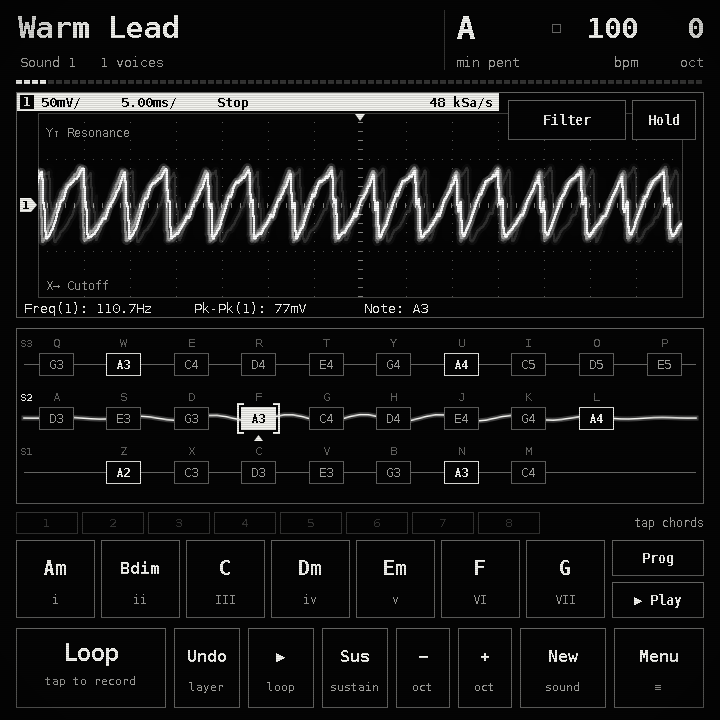
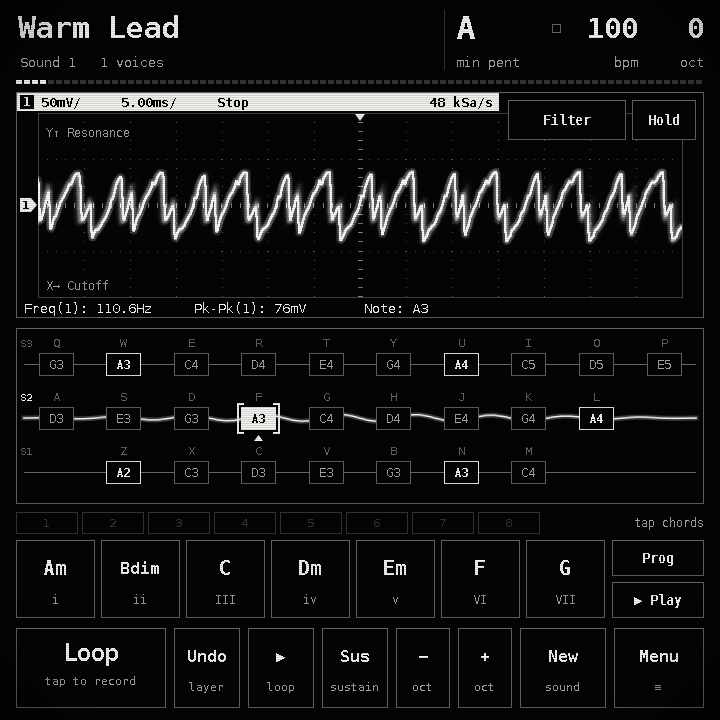
Scope trace drawn by hand: a frame with sound costs 6-12 ms instead of 40-64 ms (0.8.1)
While anything sounded, the Synth page's scope went through Qt's path stroker
twice a frame (a 7 px glow and a 2 px line over a path of up to 1288 segments),
about 30 ms a stroke. At 25 frames a second that held the main thread at a
full core; a running 0.7.0 was measured at 97-103 % on the device.

The trace never goes backwards, so each pixel column holds one vertical span
and a stroke is a distance to those spans. Same widths, colours and glow as
before, in the plain and the glitch scope.

- self-test: with three notes sounding every page must redraw well inside a
  frame; a kept clip must reach the state file by itself (both were untested)
- VREQUENCY_TIMING=1 now also prints frames per second and the cost of a frame

diff --git a/app/scope.cpp b/app/scope.cpp
@@ -8,6 +8,7 @@
 #include <QPainter>
 #include <QPainterPath>
 #include <cmath>
+#include <cstring>
 
 using namespace td;
 using namespace pal;
@@ -22,10 +23,92 @@ QString noteText(float midi) {
     int n = (int)std::lround(midi);
     return QString("%1%2").arg(noteName(n)).arg(n / 12 - 1);
 }
+
+// ---- the trace, drawn by hand ----
+//
+// The wave is a line that never goes backwards, so in every pixel column it covers one
+// vertical span. Stroking it is then a matter of distance to those spans, which costs a
+// fraction of a millisecond; the general path stroker took 30 ms a stroke on a busy wave.
+const int TW = 644, TH = 184; // the trace area, in pixels
+
+struct Trace {
+    float lo[TW + 1], hi[TW + 1];
+    bool any = false;
+    float px = 0, py = 0;
+    Trace() { for (int i = 0; i <= TW; ++i) { lo[i] = 1e9f; hi[i] = -1e9f; } }
+    void span(int x, float a, float b) {
+        if (x < 0 || x > TW) return;
+        lo[x] = std::min(lo[x], std::min(a, b)); hi[x] = std::max(hi[x], std::max(a, b));
+    }
+    void to(float x, float y) { // the next point: in the same column, or the one after
+        if (any) {
+            const int x0 = (int)px, x1 = (int)x;
+            if (x0 == x1) span(x0, py, y);
+            else { const float mid = (py + y) * 0.5f; span(x0, py, mid); span(x1, mid, y); }
+        }
+        any = true; px = x; py = y;
+    }
+};
+
+// Antialiased coverage (0..255) of a stroke `width` pixels wide along the trace.
+void traceCoverage(const Trace &t, float width, uchar *plane) {
+    std::memset(plane, 0, (size_t)TW * TH);
+    const float reach = width * 0.5f + 0.5f; // coverage falls to nothing this far from the line
+    for (int x = 0; x <= TW; ++x) {
+        if (t.lo[x] > t.hi[x]) continue;
+        const float lo = t.lo[x], hi = t.hi[x];
+        const int r0 = std::max(0, (int)std::floor(lo - reach)), r1 = std::min(TH - 1, (int)std::floor(hi + reach));
+        for (int c = std::max(0, (int)std::floor(x - reach)); c <= std::min(TW - 1, (int)std::floor(x + reach)); ++c) {
+            const float dx = std::fabs(c + 0.5f - x);
+            if (dx >= reach) continue;
+            const int inside = std::min(255, (int)((reach - dx) * 255.0f));
+            uchar *col = plane + c;
+            for (int r = r0; r <= r1; ++r) {
+                const float yc = r + 0.5f, dy = yc < lo ? lo - yc : (yc > hi ? yc - hi : 0.0f);
+                int v = inside;
+                if (dy > 0) {
+                    const float d = std::sqrt(dx * dx + dy * dy);
+                    if (d >= reach) continue;
+                    v = std::min(255, (int)((reach - d) * 255.0f));
+                }
+                uchar &o = col[(size_t)r * TW];
+                if (v > o) o = (uchar)v;
+            }
+        }
+    }
+}
+
+// Paints a colour through the coverage onto an opaque RGB32 image (plain "source over").
+void traceBlend(QImage &img, const uchar *plane, QColor colour, int alpha) {
+    const int cr = colour.red(), cg = colour.green(), cb = colour.blue();
+    for (int y = 0; y < TH; ++y) {
+        QRgb *line = reinterpret_cast<QRgb *>(img.scanLine(y));
+        const uchar *cov = plane + (size_t)y * TW;
+        for (int x = 0; x < TW; ++x) {
+            if (!cov[x]) continue;
+            const int a = cov[x] * alpha / 255, ia = 255 - a;
+            const QRgb d = line[x];
+            line[x] = qRgb((qRed(d) * ia + cr * a) / 255, (qGreen(d) * ia + cg * a) / 255, (qBlue(d) * ia + cb * a) / 255);
+        }
+    }
+}
+
+// The same, as a see-through image to lay over something else.
+void traceOverlay(QImage &img, const uchar *plane, QColor colour, int alpha) {
+    const int cr = colour.red(), cg = colour.green(), cb = colour.blue();
+    for (int y = 0; y < TH; ++y) {
+        QRgb *line = reinterpret_cast<QRgb *>(img.scanLine(y));
+        const uchar *cov = plane + (size_t)y * TW;
+        for (int x = 0; x < TW; ++x) {
+            const int a = cov[x] * alpha / 255;
+            line[x] = qRgba(cr * a / 255, cg * a / 255, cb * a / 255, a); // premultiplied
+        }
+    }
+}
 } // namespace
 
 void MainWindow::drawScope(QRectF xy) {
-    const int GW = 644, GH = 184;
+    const int GW = TW, GH = TH;
     const qreal div = 46;
     const QRectF GR(xy.x() + 22, xy.y() + 21, GW, GH);
     const int L = Qt::AlignLeft | Qt::AlignVCenter;
@@ -146,7 +229,8 @@ void MainWindow::drawScope(QRectF xy) {
     // white on top, so the wave on screen is still the wave you hear.
     glitchVis += ((u.glitch ? 1.0f : 0.0f) - glitchVis) * (u.glitch ? 0.5f : 0.2f);
     const bool gl = glitchVis > 0.03f;
-    QPainterPath live;
+    static uchar cover[TW * TH];
+    Trace tr;
     {
         if (gl) {
             QImage prev = phos.copy();
@@ -155,21 +239,19 @@ void MainWindow::drawScope(QRectF xy) {
             q0.setOpacity(u.glitch ? 0.87 + 0.10 * u.glitchY : 0.6);
             const int step = 4 + (int)(7 * u.glitchX);
             q0.drawImage(QPoint(step, (step * 2 + 1) / 3), prev);
+        } else {
+            QPainter q(&phos);
+            q.fillRect(phos.rect(), QColor(0, 0, 0, 112));
         }
-        QPainter q(&phos);
-        if (!gl) q.fillRect(phos.rect(), QColor(0, 0, 0, 112));
-        q.setRenderHint(QPainter::Antialiasing, true);
         const float vdiv = VD_V[vdIdx];
-        auto Y = [&](float v) { return GH / 2.0 - qBound(-2.1f, v / vdiv, 2.1f) * div; };
-        QPainterPath path;
+        auto Y = [&](float v) { return (float)(GH / 2.0 - qBound(-2.1f, v / vdiv, 2.1f) * div); };
         double per = (double)need / GW; // samples per pixel column
         if (per <= 1.5) {
             for (int x = 0; x <= GW; ++x) {
                 double pos = start + x * per;
                 int i0 = qBound(0, (int)pos, total - 2);
                 float fr = (float)(pos - i0);
-                float v = buf[i0] + (buf[i0 + 1] - buf[i0]) * fr;
-                if (x == 0) path.moveTo(x, Y(v)); else path.lineTo(x, Y(v));
+                tr.to(x, Y(buf[i0] + (buf[i0 + 1] - buf[i0]) * fr));
             }
         } else { // peak detect: each column spans from its lowest to its highest sample
             for (int x = 0; x < GW; ++x) {
@@ -177,42 +259,33 @@ void MainWindow::drawScope(QRectF xy) {
                 float mn = buf[a], mx = buf[a];
                 for (int i = a + 1; i < b; ++i) { mn = qMin(mn, buf[i]); mx = qMax(mx, buf[i]); }
                 bool up = buf[b - 1] >= buf[a];
-                if (x == 0) path.moveTo(x, Y(up ? mn : mx));
-                path.lineTo(x, Y(up ? mn : mx));
-                path.lineTo(x, Y(up ? mx : mn));
+                tr.to(x, Y(up ? mn : mx));
+                tr.to(x, Y(up ? mx : mn));
             }
         }
-        q.setBrush(Qt::NoBrush);
         if (gl) {
             glitchHue = std::fmod(glitchHue + 0.083f, 1.0f);
-            QColor c = QColor::fromHsvF(glitchHue, qBound(0.0f, glitchVis, 1.0f), 1.0f);
-            c.setAlpha(70);
-            q.setPen(QPen(c, 6.0, Qt::SolidLine, Qt::RoundCap, Qt::RoundJoin)); // bloom, in this frame's colour
-            q.drawPath(path);
-            c.setAlpha(255);
-            q.setPen(QPen(c, 2.0, Qt::SolidLine, Qt::RoundCap, Qt::RoundJoin));
-            q.drawPath(path);
-            live = path;
+            const QColor c = QColor::fromHsvF(glitchHue, qBound(0.0f, glitchVis, 1.0f), 1.0f);
+            traceCoverage(tr, 6.0f, cover);
+            traceBlend(phos, cover, c, 70); // bloom, in this frame's colour
+            traceCoverage(tr, 2.0f, cover);
+            traceBlend(phos, cover, c, 255);
         } else {
-            q.setPen(QPen(QColor(255, 255, 255, 46), 7.0, Qt::SolidLine, Qt::RoundCap, Qt::RoundJoin)); // bloom
-            q.drawPath(path);
-            q.setPen(QPen(QColor(0xff, 0xff, 0xfb), 2.0, Qt::SolidLine, Qt::RoundCap, Qt::RoundJoin));
-            q.drawPath(path);
+            traceCoverage(tr, 7.0f, cover);
+            traceBlend(phos, cover, QColor(255, 255, 255), 46); // bloom
+            traceCoverage(tr, 2.0f, cover);
+            traceBlend(phos, cover, QColor(0xff, 0xff, 0xfb), 255);
         }
     }
     g->setCompositionMode(QPainter::CompositionMode_Plus);
     g->drawImage(GR.topLeft(), phos);
     g->setCompositionMode(QPainter::CompositionMode_SourceOver);
     if (gl) { // the present wave, white, over its own coloured history
-        g->save();
-        g->setClipRect(GR);
-        g->translate(GR.topLeft());
-        g->setRenderHint(QPainter::Antialiasing, true);
-        g->setBrush(Qt::NoBrush);
-        g->setPen(QPen(QColor(255, 255, 251, (int)(255 * qBound(0.0f, glitchVis, 1.0f))), 1.6, Qt::SolidLine, Qt::RoundCap, Qt::RoundJoin));
-        g->drawPath(live);
-        g->restore();
-        g->setRenderHint(QPainter::Antialiasing, false);
+        static QImage top;
+        if (top.size() != QSize(GW, GH)) top = QImage(GW, GH, QImage::Format_ARGB32_Premultiplied);
+        traceCoverage(tr, 1.6f, cover);
+        traceOverlay(top, cover, QColor(255, 255, 251), (int)(255 * qBound(0.0f, glitchVis, 1.0f)));
+        g->drawImage(GR.topLeft(), top);
     }
 
     // ---- markers: trigger point (top centre), channel ground (left margin) ----

diff --git a/app/selftest.cpp b/app/selftest.cpp
@@ -85,6 +85,22 @@ int runSelfTest(MainWindow &w, Instrument &inst, AudioOut &audio, const QString 
         for (int i = 0; i < 40; ++i) w.shot();
         std::printf("  info  play page redraw: %.1f ms per frame\n", pt.elapsed() / 40.0);
     }
+    { // a busy wave on the scope once cost 40 to 60 ms a frame: a whole processor core at 25 frames a second
+        static const char *pn[] = {"Track", "Synth", "Sound", "Beat", "Backing", "Tune", "System", "Help"};
+        key(w, Qt::Key_Z, true); key(w, Qt::Key_S, true); key(w, Qt::Key_E, true); wait(300);
+        double worst = 0; int worstPage = 0;
+        for (int p = 0; p < MainWindow::PG_COUNT; ++p) {
+            w.setPage(p); w.shot();
+            QElapsedTimer t; t.start();
+            for (int i = 0; i < 20; ++i) w.shot();
+            const double ms = t.nsecsElapsed() / 20e6;
+            if (ms > worst) { worst = ms; worstPage = p; }
+        }
+        key(w, Qt::Key_E, false); key(w, Qt::Key_S, false); key(w, Qt::Key_Z, false);
+        inst.cmd(EV_PANIC); // no release tails left for the checks that follow
+        w.setPage(MainWindow::PG_PLAY); wait(400);
+        check(worst < 25.0, QString("with three notes sounding every page redraws well inside a 40 ms frame (slowest: %1, %2 ms)").arg(pn[worstPage]).arg(worst, 0, 'f', 1));
+    }
 
     std::printf("- keyboard events -> notes\n");
     key(w, Qt::Key_Z, true); wait(120);
@@ -289,6 +305,9 @@ int runSelfTest(MainWindow &w, Instrument &inst, AudioOut &audio, const QString 
         check(T().clips.size() == 3 && T().clips[0]->kind == CK_BEAT && T().clips[1]->kind == CK_CHORDS && T().clips[2]->kind == CK_LOOP,
               "+ Keep copies the beat, the chords and the loop onto the shelf");
         check(w.clipInHand(), "and the newest clip is in hand, ready to place");
+        wait(3200);
+        QJsonObject aj; store::readJson(store::baseDir() + "/state.json", aj);
+        check(aj["track"].toObject()["clips"].toArray().size() == 3, "a moment after an edit the track is in the state file without being asked");
         tap(w, "keep"); wait(60);
         check(T().clips.size() == 3, "keeping the same things again adds nothing");
         QRectF lanes = w.zoneRect("lanes");

diff --git a/app/mainwindow.cpp b/app/mainwindow.cpp
@@ -764,8 +764,19 @@ void MainWindow::paintEvent(QPaintEvent *) {
         first = false;
         if (qEnvironmentVariableIsSet("VREQUENCY_TIMING")) fprintf(stderr, "vrequency: first frame %lld ms after launch\n", (long long)msSinceStart());
     }
-    QPainter painter(this);
-    drawAll(painter, width(), height());
+    QElapsedTimer pt; pt.start();
+    {
+        QPainter painter(this);
+        drawAll(painter, width(), height());
+    }
+    // VREQUENCY_TIMING=1 prints how often the window is drawn and how long a frame takes
+    static const bool timing = qEnvironmentVariableIsSet("VREQUENCY_TIMING");
+    static int frames = 0; static qint64 spent = 0, since = 0;
+    ++frames; spent += pt.nsecsElapsed();
+    if (timing && clock.elapsed() - since >= 2000) {
+        fprintf(stderr, "vrequency: page %d, %.1f frames/s, %.1f ms each\n", pg, frames * 1000.0 / (clock.elapsed() - since), spent / 1e6 / frames);
+        frames = 0; spent = 0; since = clock.elapsed();
+    }
 }
 
 void MainWindow::drawAll(QPainter &painter, qreal W, qreal H) {

diff --git a/app/main.cpp b/app/main.cpp
@@ -27,7 +27,7 @@ int main(int argc, char **argv) {
         else if (a == "--shots" && i + 1 < argc) shots = argv[++i];
         else if (a == "--render" && i + 1 < argc) render = argv[++i];
         else if (a == "--audio" && i + 1 < argc) prefer = argv[++i];
-        else if (a == "--version") { std::printf("vrequency 0.8.0\n"); return 0; }
+        else if (a == "--version") { std::printf("vrequency 0.8.1\n"); return 0; }
         else if (a == "--help" || a == "-h") {
             std::printf("venv vrequency - pocket string synthesiser\n\n"
                         "  vrequency               start full screen\n"

diff --git a/docs/STATUS.md b/docs/STATUS.md
@@ -1,6 +1,6 @@
 # Status — what works, what is unproven, what is missing
 
-Version 0.8.0, 2026-11-13 (0.7.0 plus a sound picker on the Track page: a placed clip can play as one of eighteen new Keys, Guitar and Bass sounds, any of your own sounds or another kit, with an octave shift. 0.7.0 was 0.6.0 plus a Track page for arranging kept beats, chords and loops on lanes, with chop, cycle and export; the tabs now start with Track and the Play page is called Synth. 0.6.0 added the Beat page and Play last, 0.5.0 five sine-based "dream" sounds, 0.4.0 the Glitch touch-pad mapping). "Tested" below means an automated test measured it; it does **not** mean a
+Version 0.8.1, 2026-11-13 (0.8.0 plus a fix: the scope no longer takes a whole processor core to draw while sound plays. 0.8.0: 0.7.0 plus a sound picker on the Track page: a placed clip can play as one of eighteen new Keys, Guitar and Bass sounds, any of your own sounds or another kit, with an octave shift. 0.7.0 was 0.6.0 plus a Track page for arranging kept beats, chords and loops on lanes, with chop, cycle and export; the tabs now start with Track and the Play page is called Synth. 0.6.0 added the Beat page and Play last, 0.5.0 five sine-based "dream" sounds, 0.4.0 the Glitch touch-pad mapping). "Tested" below means an automated test measured it; it does **not** mean a
 person heard it or pressed a physical key. Those checks are listed separately.
 
 ## Working and covered by automated tests
@@ -26,6 +26,7 @@ application with real key and touch events while the real audio thread runs (133
 | Track (app) | Keep copies the beat, chords and loop to the shelf once each; tap-to-place, Place, drag to move (one undo step), Repeat, Split, Join, Mute, Remove (clip removal asks twice and re-points the other clips), Cycle, Length, Undo and redo; the Chop panel's cut, mend, Halves, Move, Mute piece, Reset and Done; every Track-page and Chop key listed in the guide except `Ctrl`+`B` (Export is tested through its button); Space plays, the loop's notes and the beat's hats are counted by the engine, letters play no strings on this page, the Synth page plays over the track, `Ctrl`+`Space` stops it; Export writes a WAV of the track's length plus its tail with audio in it; the track reads back the same from the state file and from a session |
 | Sound picker (engine) | A sound picked for a placement, or for a clip, replaces the recorded one while the note stays the same (measured: a recorded sine becomes a saw at the same 440 Hz); a placement's own pick wins over its clip's; the octave shift lands on 220 Hz and 1760 Hz for one down and two up; sound changes recorded inside a loop are passed over once a sound is picked; a beat with another kit picked is sample-for-sample that kit's beat; a chords clip takes a picked sound and an octave, and the live backing is back at its own pitch afterwards; split halves with different picks refuse to join. All eighteen shelf sounds sound, stay inside full scale, have their own names (none shared with a factory or dream sound) and are found by name |
 | Sound picker (app) | `I` and the Sound button open it on the kind the clip plays now; arrows change kind and stop at the ends; number keys and cells pick; a pick is one undo step and leaves the recorded sound in the clip; picking while nothing plays starts the clip alone, it is heard, and the beat lane stays silent meanwhile; a bass pick drops an octave; arrows and the stepper move the octave and stop at two; Only this one / Every; Backspace and As recorded; `Space` stops Hear; `Enter` and Done close it and stop the clip; a beat clip gets only the kits and no octave; undo and redo; picks read back the same from the state file |
+| Drawing and saving | With three notes sounding, every page redraws well inside a 40 ms frame (slowest in the test: Synth, about 11 ms); a kept clip is in the state file 2.5 s later without anything else being pressed |
 | Listening back | Play last starts the system player on the newest recording and the same button stops it (the test does not check what comes out of the speaker) |
 | Live control | XY filter and vibrato mappings, pitch bend, sustain; touch on a string plays and slides (synthetic touch events) |
 | Safety | Master output cannot exceed full scale even with a deliberately abusive sound; panic frees every voice |
@@ -35,7 +36,7 @@ application with real key and touch events while the real audio thread runs (133
 
 Implemented but with **no automated test**: loops following a tempo change, bends and XY moves inside loops,
 voice stealing at the 28-voice limit (benchmarked for speed, not checked for clicks), releasing all notes
-when the window loses focus, the scope's frequency readout, trigger and auto-ranging (checked by eye on rendered pictures only), the Glitch colour streaks (seen on one rendered picture only), Glitch moves replayed from inside a loop, pulse and up/down arpeggio styles, the pads lighting up when a drum sounds, the beat while a loop is recording or playing, old `keymap.json` files picking up the new key bindings, the on-screen sound editor's individual controls. On the Track page: the picture of each clip (beat dots, chord names, note dashes) and the moving play line (looked at on two rendered pictures only), the automatic save a moment after an edit, the sound picker's Synth kind (your slots and favourites) and its page-turning cell, Hear while the whole track is already playing, choosing another clip while the picker is open, picked sounds inside an exported file and inside a session file (only the state file is checked), following the play line past bar 8, the shelf's second page, keeping more than 40 clips, dragging a loop between Loop A and Loop B, sound changes and touch-pad moves recorded inside a loop clip, editing the track while it plays, what an exported file sounds like (only its length and that it is not silent are checked), and Play last on an exported file.
+when the window loses focus, the scope's frequency readout, trigger and auto-ranging (checked by eye on rendered pictures only), the Glitch colour streaks (seen on one rendered picture only), Glitch moves replayed from inside a loop, pulse and up/down arpeggio styles, the pads lighting up when a drum sounds, the beat while a loop is recording or playing, old `keymap.json` files picking up the new key bindings, the on-screen sound editor's individual controls. On the Track page: the picture of each clip (beat dots, chord names, note dashes) and the moving play line (looked at on two rendered pictures only), the sound picker's Synth kind (your slots and favourites) and its page-turning cell, Hear while the whole track is already playing, choosing another clip while the picker is open, picked sounds inside an exported file and inside a session file (only the state file is checked), following the play line past bar 8, the shelf's second page, keeping more than 40 clips, dragging a loop between Loop A and Loop B, sound changes and touch-pad moves recorded inside a loop clip, editing the track while it plays, what an exported file sounds like (only its length and that it is not silent are checked), and Play last on an exported file.
 
 ## Measured on this device
 
@@ -44,7 +45,8 @@ when the window loses focus, the scope's frequency readout, trigger and auto-ran
 | Engine cost, 28 voices + all effects | 5 % of one core (19.6× faster than real time); worst 256-frame block 0.35 ms of the 5.33 ms budget |
 | Engine load while the self-test runs on the real audio thread | 1.2 % average, 15.9 % peak, 0 late blocks |
 | Exporting an 8-bar track at 120 bpm (16.5 s of audio, three lanes in use) | 0.2 s |
-| Drawing one frame of the Synth page | 4.3 to 5.0 ms (25 frames a second while anything sounds, about two a second when idle) |
+| Drawing one frame of the Synth page | With nothing sounding 4.1 ms; with sound 6 to 12 ms (25 frames a second while anything sounds, about two a second when idle). **Before 0.8.1 a frame with sound cost 40 to 64 ms**, because the scope's trace went through Qt's path stroker: the main thread of a running 0.7.0 was measured at 97 to 103 % of a core on this device. The old 4.3 to 5.0 ms figure was taken with nothing sounding and missed it |
+| Drawing one frame of any other page, with sound | About 4 ms |
 | Idle CPU (app open, nothing playing) | 2.3 % of one core, measured headless with silent audio; not re-measured on the real screen since 0.1 (was about 8 %) |
 | Memory | 45 MB headless; on-screen figure not re-measured since 0.1 (was about 120 MB) |
 | Launch to first frame | not re-measured since 0.1 (was 0.07 s headless, about 0.3 s on screen) |
@@ -63,6 +65,8 @@ Nobody has yet confirmed any of these. See the test list at the end of this file
 7. That the new look reads well on the real LCD: 11–13 px raster text, the dim grey secondary labels, the faint scan lines.
 8. That the Track page is usable by finger: bars are 65 pixels wide and lanes 66 high, and the Chop strip's cut lines can be as close as 43 pixels.
 9. That the track sounds right: nobody has heard it, or an exported file.
+11. That the new hand-drawn scope trace looks right on the real screen (compared with the old one on two rendered pictures only), and that the app's processor use really drops on the device: the 6 to 12 ms figure is from a headless run.
+12. Why a Bluetooth speaker (a JBL Go 4, 2026-11-13) played "fine for 5 s, then jittery". Not diagnosed by ear. The adapter was scanning the whole time because the Bluetooth settings window was open, and the synth was using a full core; either could do it.
 10. That the eighteen Keys, Guitar and Bass sounds are any good. I chose their settings without being able to listen; only their loudness and that they are not silent were measured. The guitars in particular are a synth's imitation, not a string model.
 5. That the 200 ms loop timing fix feels right on the Bluetooth speaker.
 6. Long-session stability (longest automated run is about a minute).

diff --git a/README.md b/README.md
@@ -96,7 +96,7 @@ Tests:
 ```bash
 ./build/vrequency_tests                                   # 506 engine checks (offline rendering)
 ./build/vrequency_tests --bench                           # CPU at full polyphony
-QT_QPA_PLATFORM=offscreen ./build/vrequency --selftest    # 157 checks through the real app + audio thread
+QT_QPA_PLATFORM=offscreen ./build/vrequency --selftest    # 159 checks through the real app + audio thread
 QT_QPA_PLATFORM=offscreen ./build/vrequency --audio null --render docs/shots   # redraw the pictures
 ```
 

diff --git a/docs/GUIDE.md b/docs/GUIDE.md
@@ -1,6 +1,6 @@
 # How to use venv vrequency
 
-A guide to playing the synth, page by page. Everything here describes version 0.8.0 with the
+A guide to playing the synth, page by page. Everything here describes version 0.8.1 with the
 default key bindings.
 
 The short version is also built into the app: press `Ctrl`+`H`, or tap Menu and then the Help tab.
